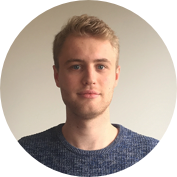
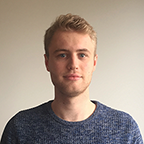
added content to homepage, cleaning up some unused files

diff --git a/assets/scss/_styleguide.scss b/assets/scss/_styleguide.scss
@@ -10,8 +10,9 @@ body {
 }
 
 h1 {
-    font-size: rem(40);
+    font-size: rem(36);
     font-weight: 500;
+    margin-bottom: rem(24);
 }
 
 h2 {
@@ -47,7 +48,7 @@ p {
     }
 }
 
-h1, h2, h3, h4, h5, h6 {
+h2, h3, h4, h5, h6 {
     margin-bottom: rem(0);
 
     & + p, & + ul, & + ol {
@@ -84,6 +85,10 @@ a {
 img {
     max-width: 100%;
     height: auto;
+}
+
+.avatar {
+    border-radius: rem(180);
 }
 
 section {

diff --git a/assets/scss/library/_utilities.scss b/assets/scss/library/_utilities.scss
@@ -1,0 +1,35 @@
+.align-left {
+    text-align: left;
+}
+
+.align-center {
+    text-align: center;
+}
+
+.align-right {
+    text-align: right;
+}
+
+.flex {
+    display: flex;
+}
+
+.flex-align-center {
+    align-items: center;
+}
+
+.flex-justify-end {
+    justify-content: flex-end;
+}
+
+.col-100 {
+    width: 100%;
+}
+
+.col-30 {
+    width: 30%;
+}
+
+.col-70 {
+    width: 70%;
+}

diff --git a/assets/scss/style.scss b/assets/scss/style.scss
@@ -3,9 +3,8 @@
 @import "library/mixins";
 @import "library/fonts";
 @import "library/buttons";
-@import "library/forms";
-@import "library/icons";
-@import "library/animations"; // animations and transitions
+@import "library/utilities";
+@import "library/animations";
 
 // Styleguide
 @import "styleguide";

diff --git a/gulpfile.js b/gulpfile.js
@@ -27,7 +27,7 @@ gulp.task('js', function () {
 gulp.task('twig', function () {
     const files = [
         "./assets/twig/index.twig",
-        "./assets/twig/work.twig"
+        "./assets/twig/about.twig"
     ];
 
     return gulp.src(files)

diff --git a/assets/scss/components/_case.scss b/assets/scss/components/_case.scss
@@ -9,6 +9,7 @@
     justify-content: center;
     padding: rem(126) rem(32);
     border-top: map_get($borders, default);
+    width: 100%;
 }
 
 .case--mobile {

diff --git a/assets/scss/components/_nav.scss b/assets/scss/components/_nav.scss
@@ -26,4 +26,8 @@ p + .navigation {
 
 .navigation--big {
     font-size: rem(20);
+
+    li {
+        margin-right: rem(32);
+    }
 }

diff --git a/assets/scss/library/_variables.scss b/assets/scss/library/_variables.scss
@@ -22,5 +22,5 @@ $z-indices: (
 );
 
 $container-widths: (
-    default: 64rem
+    default: 56rem
 )

diff --git a/assets/scss/library/_grid.scss b/assets/scss/library/_grid.scss
@@ -1,0 +1,1 @@
+.
